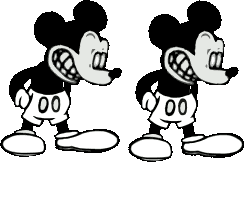
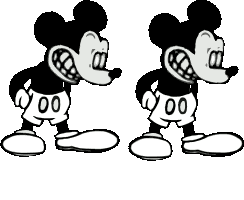
happy mouse pt 2

diff --git a/src/character/happym.c b/src/character/happym.c
@@ -96,8 +96,8 @@ static const CharFrame char_happym_frame[] = {
 	{happym_ArcMain_LeftB1, {0,   0, 104, 173}, {40, 178}}, 
 	{happym_ArcMain_LeftB1, {106, 0, 106, 174}, {44, 178}}, 
 
-	{happym_ArcMain_DownB0, {0,   0, 110, 169}, {43, 172}}, 
-	{happym_ArcMain_DownB0, {112, 0, 104, 174}, {43, 177}}, 
+	{happym_ArcMain_DownB0, {0,   0, 110, 169}, {47, 166}}, 
+	{happym_ArcMain_DownB0, {112, 0, 104, 174}, {44, 169}}, 
 	{happym_ArcMain_DownB1, {0,   0, 103, 175}, {40, 178}},  
 	{happym_ArcMain_DownB1, {109, 0, 107, 175}, {41, 177}}, 
 	
@@ -113,7 +113,7 @@ static const CharFrame char_happym_frame[] = {
 
 	{happym_ArcMain_Idleb0, {0,   0, 104, 178}, {41, 181}}, 
 	{happym_ArcMain_Idleb0, {108, 0, 104, 177}, {40, 180}}, 
-	{happym_ArcMain_Idleb1, {0,   0, 112, 168}, {44, 172}},  
+	{happym_ArcMain_Idleb1, {0,   0, 112, 167}, {44, 172}},  
 	{happym_ArcMain_Idleb1, {113, 0, 119, 158}, {47, 162}},  
 	{happym_ArcMain_Idleb2, {0,   0, 122, 157}, {47, 159}}, 
 	{happym_ArcMain_Idleb2, {128, 0, 116, 162}, {46, 166}}, 

diff --git a/src/stage.c b/src/stage.c
@@ -23,8 +23,8 @@
 #include "object/splash.h"
 
 //Stage constants
-#define STAGE_PERFECT //Play all notes perfectly
-#define STAGE_NOHUD //Disable the HUD
+//#define STAGE_PERFECT //Play all notes perfectly
+//#define STAGE_NOHUD //Disable the HUD
 
 //#define STAGE_FREECAM //Freecam
 
